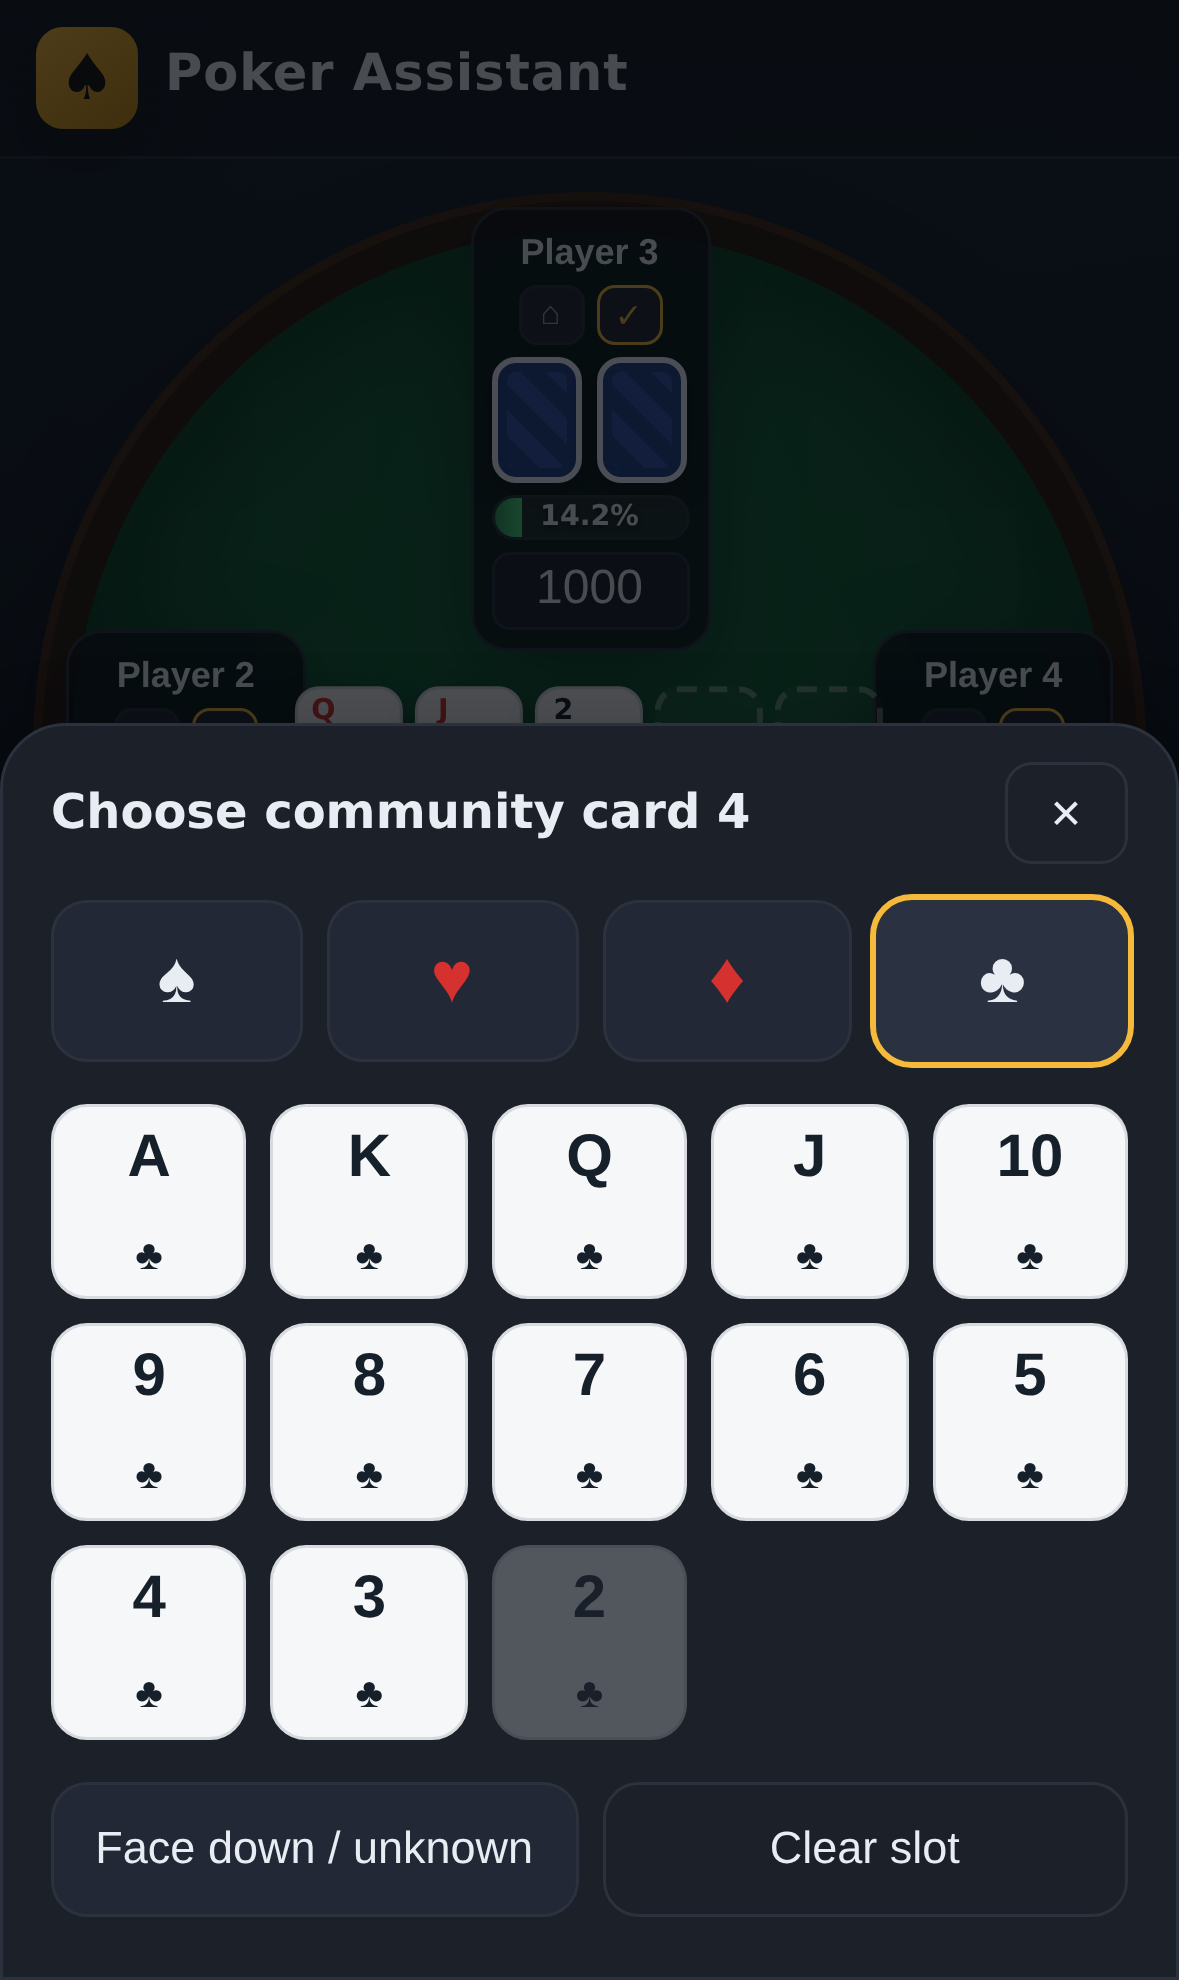
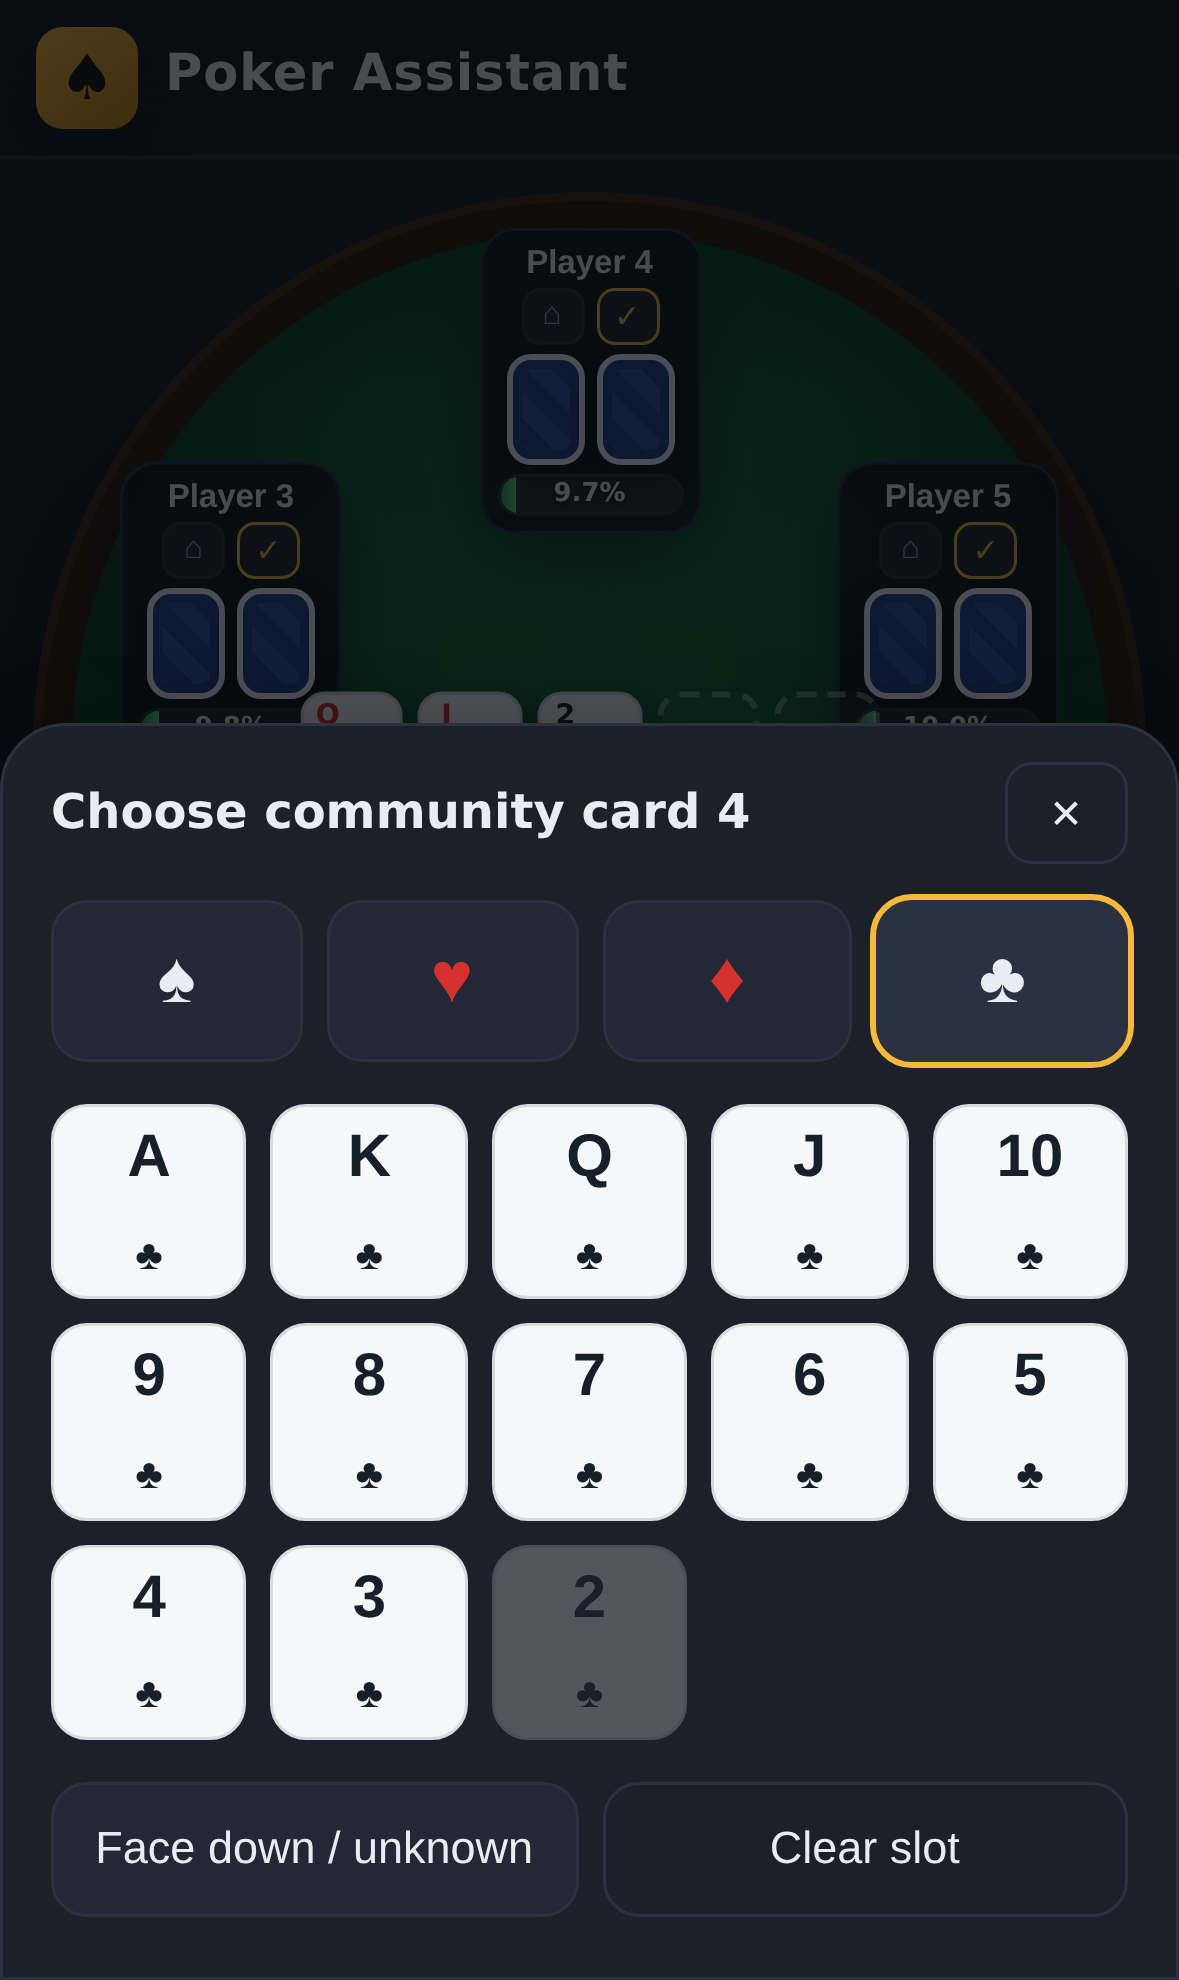
Resize the mobile table so a full ring always fits and looks good
- Seats scale with player count (lg/md/sm/xs tiers) via CSS variables set
  in JS; only the hero shows a stack (the only stack the maths uses), so
  opponent seats stay short and never overlap
- Board cards size to screen width (min/vw) so the five-card row always
  fits in the gap between the left and right seats, even on a 320px SE
- Denser tables use a taller felt so both sides have vertical room
- Board layer no longer swallows taps meant for seat cards beneath its
  transparent area (pointer-events), and hero empty slots scale too

Verified on iPhone SE (320px) and iPhone 14 Pro at 2/4/6/8/9/10 players
with a full board: automated checks confirm every community card, seat
name and hole card is visible/tappable and nothing runs off-screen.
Desktop unchanged; engine suite still 18/18.

Claude-Session: https://claude.ai/code/session_01TBYYXhnsbu8zojBjV1MDuw

diff --git a/css/styles.css b/css/styles.css
@@ -85,8 +85,11 @@ body {
 .table-center {
   position: absolute; left: 50%; top: 50%; transform: translate(-50%,-50%);
   display: flex; flex-direction: column; align-items: center; gap: 12px; width: 70%;
+  /* The centre layer paints above the seats (so the board is never hidden) but
+     must not swallow taps aimed at seat cards beneath its transparent area. */
+  pointer-events: none;
 }
-.community { display: flex; gap: 8px; justify-content: center; flex-wrap: nowrap; }
+.community { display: flex; gap: 8px; justify-content: center; flex-wrap: nowrap; pointer-events: auto; }
 .pot-info { text-align: center; }
 .pot {
   background: rgba(0,0,0,.35); border: 1px solid rgba(255,255,255,.12);
@@ -312,31 +315,43 @@ body {
   /* Taller felt so seats sit comfortably around the ellipse on portrait. */
   .poker-table { aspect-ratio: 0.84; min-height: 0; border-width: 10px; }
   /* The board sits on its own layer ABOVE the seats so the middle cards are
-     always fully visible, even where a side-seat box reaches toward centre. */
-  .table-center { width: 52%; gap: 8px; z-index: 6; }
-  .community { gap: 4px; }
-  .card, .slot { width: 36px; height: 50px; }
-  .card .pip { font-size: 18px; }
-  .card .corner { font-size: 9.5px; top: 3px; left: 4px; }
-  .slot { font-size: 16px; }
+     always fully visible. Its cards scale with screen width so the five-card
+     row always fits in the gap between the left and right seats. */
+  .table-center { width: 88%; gap: 7px; z-index: 6; }
+  .community { gap: min(5px, 1.3vw); }
+  .card, .slot { width: min(38px, 8.8vw); height: min(52px, 12.1vw); }
+  .card .pip { font-size: min(19px, 4.6vw); }
+  .card .corner { font-size: min(10px, 2.4vw); top: 3px; left: 4px; }
+  .slot { font-size: min(16px, 4vw); }
   .pot { font-size: 13px; padding: 5px 12px; }
   .deck-info { font-size: 10px; }
 
-  /* Compact seats: name on its own line so it never truncates to "P…". */
-  .seat { width: 80px; padding: 6px; border-radius: 12px; gap: 4px; position: absolute; z-index: 2; }
-  .seat-top { flex-wrap: wrap; row-gap: 3px; justify-content: center; }
-  .seat-name { font-size: 12px; flex: 1 1 100%; min-width: 0; padding: 1px 2px;
+  /* Seats scale with how many are at the table so a full ring always fits.
+     Sizes come from CSS variables; JS sets data-seat = lg / md / sm. */
+  .poker-table { --sw: 84px; --cw: 30px; --ch: 42px; --nf: 12px; --bh: 20px; --wb: 15px; --gap: 5px; }
+  .poker-table[data-seat="md"] { --sw: 74px; --cw: 26px; --ch: 37px; --nf: 11px; --bh: 19px; --wb: 14px; --gap: 4px; }
+  .poker-table[data-seat="sm"] { --sw: 62px; --cw: 22px; --ch: 30px; --nf: 10px; --bh: 17px; --wb: 12px; --gap: 3px; aspect-ratio: 0.80; }
+  .poker-table[data-seat="xs"] { --sw: 54px; --cw: 19px; --ch: 26px; --nf: 9px; --bh: 15px; --wb: 10px; --gap: 2px; aspect-ratio: 0.74; }
+
+  .seat { width: var(--sw); padding: 5px; border-radius: 12px; gap: 3px; position: absolute; z-index: 2; }
+  .seat-top { flex-wrap: wrap; row-gap: 2px; justify-content: center; }
+  .seat-name { font-size: var(--nf); flex: 1 1 100%; min-width: 0; padding: 0 2px;
     text-align: center; text-overflow: ellipsis; overflow: hidden; white-space: nowrap; }
   .seat-badges { gap: 4px; margin: 0 auto; }
-  .mini-btn { width: 22px; height: 20px; font-size: 11px; }
-  .card.small { width: 30px; height: 42px; }
-  .card.small .pip { font-size: 15px; }
-  .card.small .corner { font-size: 8.5px; top: 2px; left: 3px; }
-  .seat-cards { gap: 5px; }
-  .winbar { height: 15px; }
-  .winbar > b { font-size: 9.5px; }
-  .seat-foot { gap: 5px; }
-  .seat-stack { flex: 1 1 auto; width: 100%; min-width: 0; font-size: 16px; padding: 3px 5px; text-align: center; }
+  .mini-btn { width: calc(var(--bh) + 2px); height: var(--bh); font-size: calc(var(--bh) * 0.55); }
+  .card.small, .slot.small { width: var(--cw); height: var(--ch); }
+  .slot.small { font-size: calc(var(--ch) * 0.42); }
+  .card.small .pip { font-size: calc(var(--ch) * 0.36); }
+  .card.small .corner { font-size: calc(var(--ch) * 0.2); top: 2px; left: 3px; }
+  .seat-cards { gap: var(--gap); }
+  .winbar { height: var(--wb); }
+  .winbar > b { font-size: calc(var(--wb) * 0.62); }
+
+  /* Only the hero shows a stack (the only stack the maths uses); this keeps
+     opponent seats short so a 9–10 handed ring never overlaps. */
+  .seat:not(.hero) .seat-foot { display: none; }
+  .seat.hero .seat-foot { gap: 5px; margin-top: 1px; }
+  .seat.hero .seat-stack { flex: 1 1 auto; width: 100%; min-width: 0; font-size: 16px; padding: 3px 5px; text-align: center; }
   /* Hero is already marked by the gold ring + active ⌂, so drop the YOU chip. */
   .you-tag { display: none; }
   .sim-status { font-size: 11px; }

diff --git a/js/app.js b/js/app.js
@@ -116,9 +116,16 @@
   // ---------- Seat geometry ----------
   function seatPositions(n) {
     // Hero at bottom-centre (i=0), others spread evenly around the ellipse.
-    // Tighter horizontal radius on phones keeps side seats fully on-screen.
+    // On phones seats shrink as the table fills, so we can push the ring out
+    // toward the rim for more spacing without clipping or centre overlap.
     var narrow = window.matchMedia("(max-width: 700px)").matches;
-    var xR = narrow ? 39 : 44, yR = narrow ? 34 : 40;
+    var xR = 44, yR = 40;
+    if (narrow) {
+      if (n <= 4) { xR = 39; yR = 36; }
+      else if (n <= 6) { xR = 40; yR = 38; }
+      else if (n <= 8) { xR = 41; yR = 39; }
+      else { xR = 42; yR = 40; }
+    }
     var pos = [];
     for (var i = 0; i < n; i++) {
       var theta = (Math.PI / 2) + (i * 2 * Math.PI / n); // radians, 0 = right, +y down
@@ -130,6 +137,15 @@
   // ---------- Render ----------
   function render() {
     ensurePlayers();
+
+    // Scale the seats to the table size on phones (more players → smaller seats).
+    if (window.matchMedia("(max-width: 700px)").matches) {
+      var n = state.numPlayers;
+      tableEl.setAttribute("data-seat",
+        n <= 4 ? "lg" : n <= 6 ? "md" : n <= 8 ? "sm" : "xs");
+    } else {
+      tableEl.removeAttribute("data-seat");
+    }
 
     // Community cards.
     communityEl.innerHTML = "";
